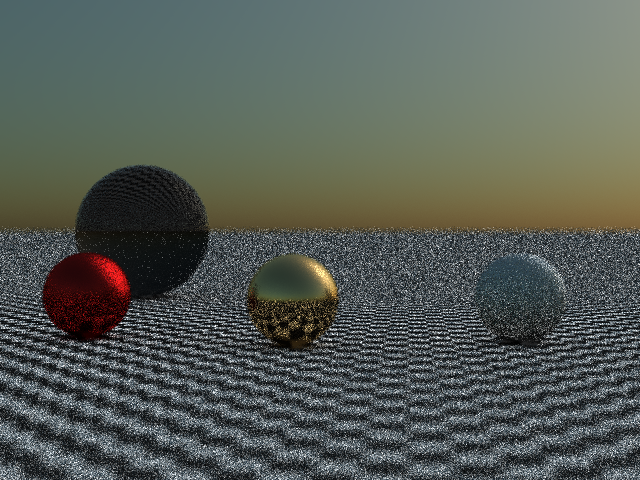
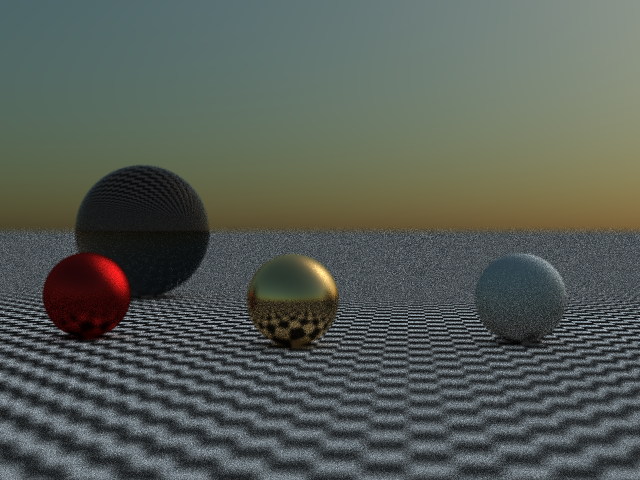
chunking

Changed region(s): [[0.0, 0.4688, 1.0, 1.0], [0.2812, 0.375, 0.3125, 0.4375]]

diff --git a/src/rendercontext.rs b/src/rendercontext.rs
@@ -23,6 +23,8 @@ pub struct RenderIterator {
     i: usize,
     pub width: usize,
     pub height: usize,
+    pub samples: usize,
+    pub chunk_size: usize,
 }
 
 #[derive(Debug, Copy, Clone, PartialEq)]
@@ -31,6 +33,7 @@ pub struct RenderableChunk {
     pub xmax: usize,
     pub ymin: usize,
     pub ymax: usize,
+    pub supersamples: usize,
 }
 
 pub struct RenderedChunk {
@@ -70,8 +73,8 @@ impl RenderContext {
         }
 
         let i:usize = (y*self.width + x) as usize;
-        self.image[i] = c;
-        self.samples[i] = samples;
+        self.image[i] = self.image[i] + c;
+        self.samples[i] = self.samples[i] + samples;
         self.pixels_rendered += 1;
     }
 
@@ -130,23 +133,32 @@ impl RenderContext {
         print!("# ========================================\n");
     }
     
-    pub fn print_progress(&self){
+    pub fn print_progress(&self, s: &Scene){
         let elapsed = time::precise_time_s() - self.start_time;
         println!("- [{:.0}s] {} rays cast ({} RPS), {} Rays per pixel, {}%, {} threads",
                  elapsed,
                  format_f64(self.rays_cast as f64),
                  format_f64(self.rays_cast as f64 / elapsed),
                  format_f64(self.rays_cast as f64 / self.pixels_rendered as f64),
-                 format_f64((self.pixels_rendered as f64 / (self.width * self.height) as f64) * 100.),
+                 format_f64((self.pixels_rendered as f64 / (self.width * self.height * s.supersamples as usize) as f64) * 100.),
                  rayon::current_num_threads());
     }
 
-    pub fn iter(&self) -> RenderIterator {
-        RenderIterator {
-            i: 0,
-            width: self.width,
-            height: self.height,
-        }
+    pub fn iter(&self, s: &Scene) -> impl Iterator<Item=RenderableChunk> + '_ {
+        let width = self.width;
+        let height = self.height;
+        let chunk_size = s.chunk_size;
+        let chunk_layers = s.supersamples / s.samples_per_chunk;
+        let samples = s.samples_per_chunk;
+        return (0 .. chunk_layers)
+                    .map(move |_x| 
+                        RenderIterator {
+                            i: 0,
+                            width,
+                            height,
+                            chunk_size,
+                            samples: samples,
+                        }).flatten();
     }
 }
 
@@ -162,7 +174,7 @@ impl RenderableChunk {
         let mut rays_cast = 0;
         for y in self.ymin .. self.ymax {
             for x in self.xmin .. self.xmax {
-                let (cast, psamples, pixel) = render_pixel(x, y, s.supersamples as usize, &s);
+                let (cast, psamples, pixel) = render_pixel(x, y, self.supersamples, &s);
                 pixels.push(pixel);
                 samples.push(psamples);
                 rays_cast += cast as u64;
@@ -186,44 +198,47 @@ impl Iterator for RenderIterator {
         // From i (pixel index) find current chunk
         let y = self.i / self.width;
         let x = self.i % self.width;
-        let chunk_size = 32;
 
-        if self.height - y > chunk_size {
-            if self.width - x > chunk_size {
-                self.i = self.i + chunk_size;
+        if self.height - y > self.chunk_size {
+            if self.width - x > self.chunk_size {
+                self.i = self.i + self.chunk_size;
                 return Some(RenderableChunk {
                     xmin: x, 
-                    xmax: x + chunk_size,
+                    xmax: x + self.chunk_size,
                     ymin: y,
-                    ymax: y + chunk_size,
+                    ymax: y + self.chunk_size,
+                    supersamples: self.samples,
                 });
             } else {
                 // Increment down a row
-                self.i = (self.i - x) + (self.width * chunk_size);
+                self.i = (self.i - x) + (self.width * self.chunk_size);
                 // return remainder of x
                 return Some(RenderableChunk {
                     xmin: x ,
                     xmax: self.width,
                     ymin: y,
-                    ymax: y + chunk_size,
+                    ymax: y + self.chunk_size,
+                    supersamples: self.samples,
                 });
             }
         } else {
-            if self.width - x > chunk_size {
-                self.i = self.i + chunk_size;
+            if self.width - x > self.chunk_size {
+                self.i = self.i + self.chunk_size;
                 return Some(RenderableChunk {
                     xmin: x, 
-                    xmax: x + chunk_size,
+                    xmax: x + self.chunk_size,
                     ymin: y,
                     ymax: self.height,
+                    supersamples: self.samples,
                 });
             } else {
-                self.i = (self.i - x) + chunk_size * self.width;
+                self.i = (self.i - x) + self.chunk_size * self.width;
                 return Some(RenderableChunk {
                     xmin: x ,
                     xmax: self.width,
                     ymin: y,
                     ymax: self.height,
+                    supersamples: self.samples,
                 });
             }
         }

diff --git a/src/scenefile.rs b/src/scenefile.rs
@@ -39,7 +39,11 @@ pub struct SceneFile {
     pub ambient_diffuse: u64,
     pub diffuse: bool,
     pub shadow_bias: f64,
-    pub supersamples: u32,
+
+    pub supersamples: usize,
+    pub chunk_size: usize,
+    pub samples_per_chunk: usize,
+
     pub camera: Value,
 
     pub materials: Map<String, Value>,
@@ -340,6 +344,8 @@ impl SceneFile {
             ambient_diffuse: s.ambient_diffuse,
             shadow_bias: s.shadow_bias,
             supersamples: s.supersamples,
+            chunk_size: s.chunk_size,
+            samples_per_chunk: s.samples_per_chunk,
             max_bounding,
             black_threshold: Color::min(),
         };

diff --git a/src/main.rs b/src/main.rs
@@ -86,7 +86,7 @@ fn main() {
             matches.is_present("progressive_render"),
             );
     rc.print_scene_stats(&s);
-    let mut chunks: Vec<rendercontext::RenderableChunk> = rc.iter().collect();
+    let mut chunks: Vec<rendercontext::RenderableChunk> = rc.iter(&s).collect();
     let rcmtx = Arc::new(Mutex::new(rc));
 
     let mut rng = thread_rng();
@@ -105,7 +105,7 @@ fn main() {
             if rc.progressive_render {
                 paint::to_png(&rc);
             }
-            &rc.print_progress();
+            &rc.print_progress(&s);
         });
 
     let rc = rcmtx.lock().unwrap();

diff --git a/src/scene.rs b/src/scene.rs
@@ -22,7 +22,10 @@ pub struct Scene {
     pub ambient_diffuse: u64,
     pub diffuse: bool,
     pub shadow_bias: f64,
-    pub supersamples: u32,
+
+    pub supersamples: usize,
+    pub chunk_size: usize,
+    pub samples_per_chunk: usize,
 
     pub max_bounding: BBox,
     pub black_threshold: Color,
